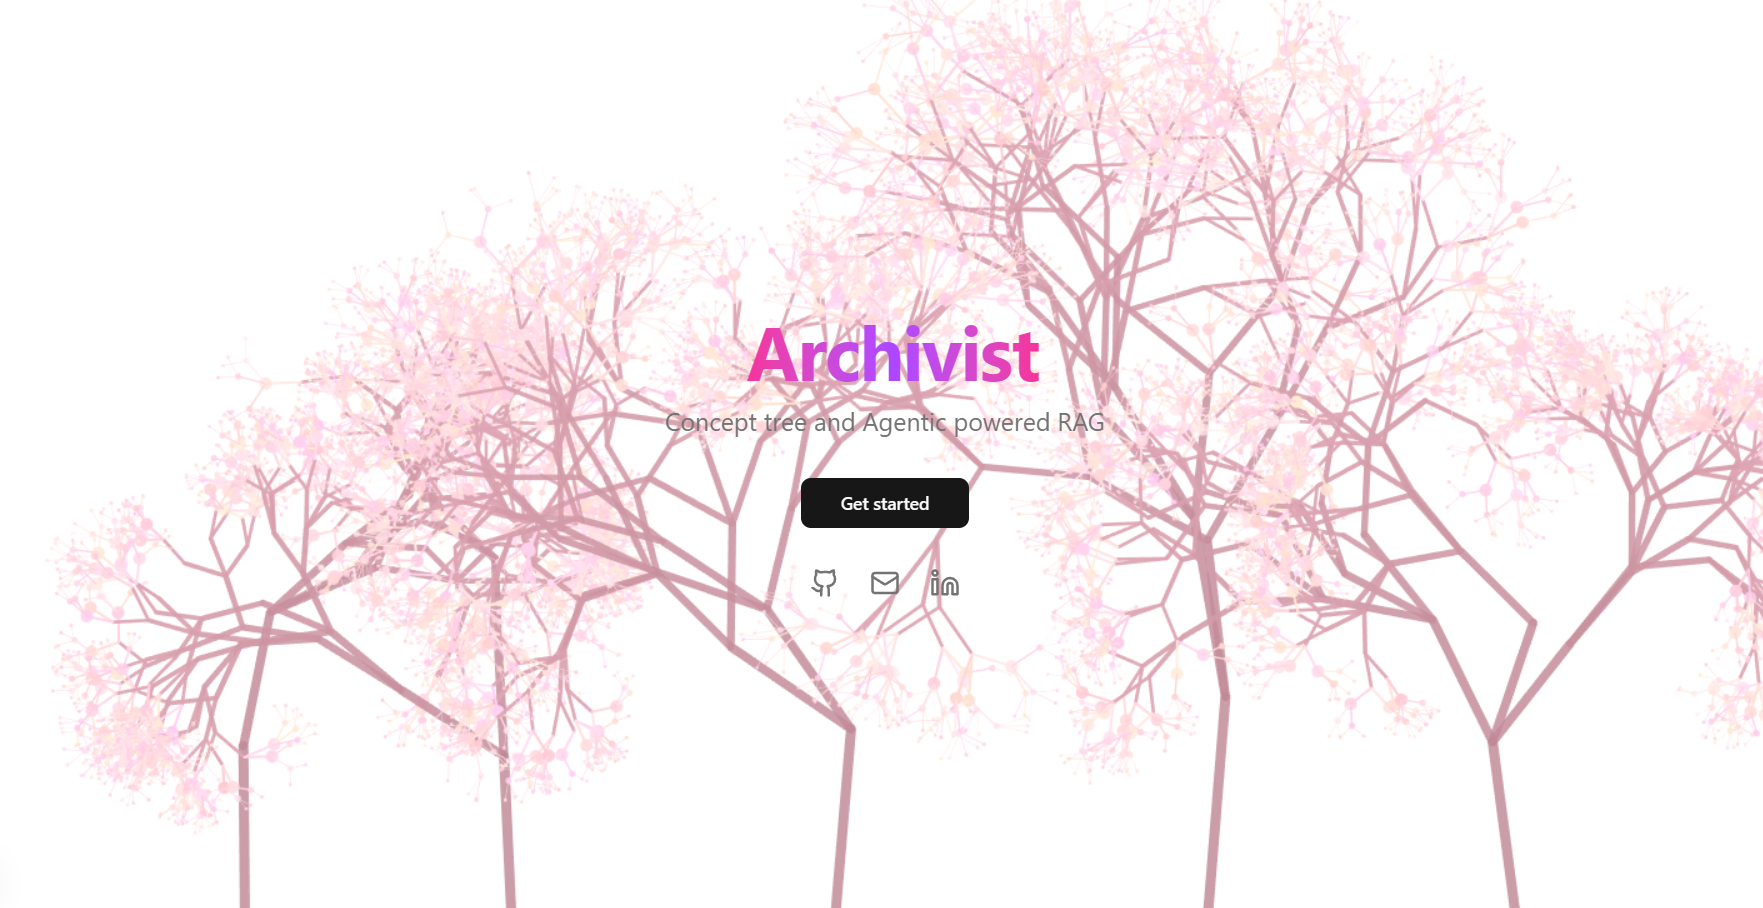
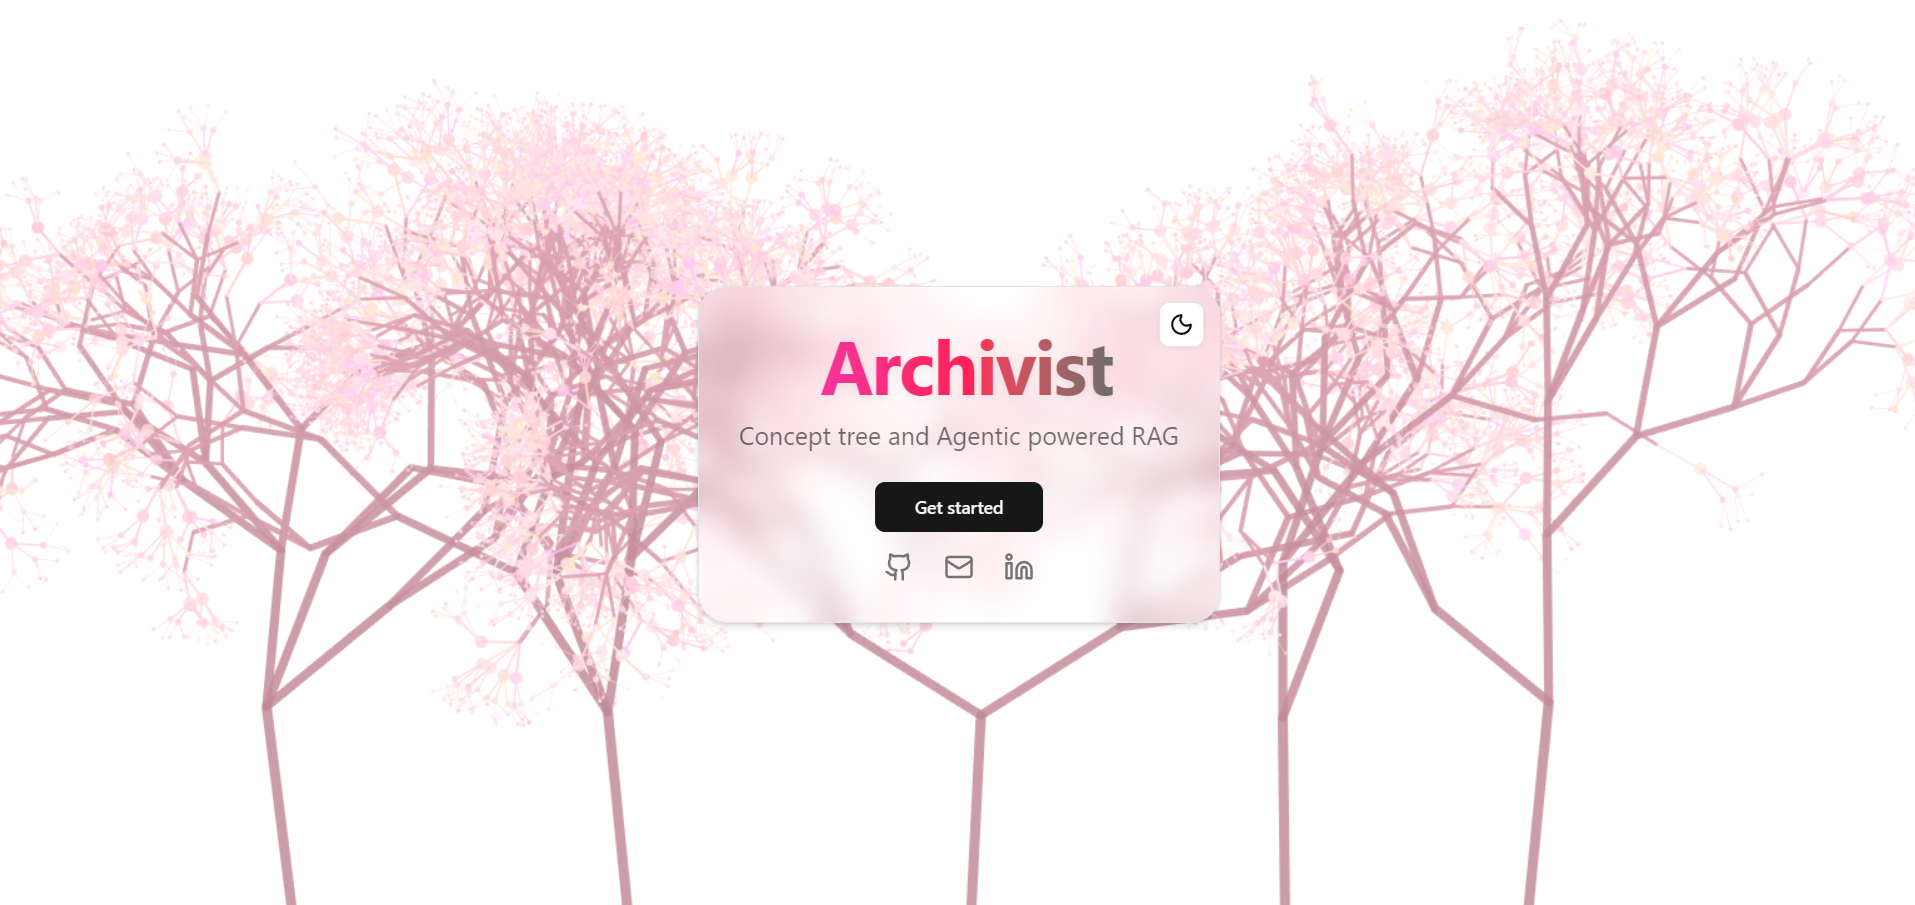
feat(homepage): add dark mode toggle and improve styling
- Implement theme toggle button using next-themes
- Update gradient text colors to adapt to theme
- Add glassmorphism effect to main content container
- Reorganize layout structure for better visual hierarchy

diff --git a/frontend/src/app/page.tsx b/frontend/src/app/page.tsx
@@ -1,11 +1,18 @@
 "use client"
 
 import Link from "next/link"
-import { Mail, Linkedin, Github } from "lucide-react"
+import * as React from "react"
+import { useTheme } from "next-themes"
+import { Mail, Linkedin, Github, Sun, Moon } from "lucide-react"
 import { Button } from "@/components/ui/button"
 import ModernTreeBackground from "@/components/modern-tree-background"
 
 export default function Home() {
+  const { theme, resolvedTheme, setTheme } = useTheme()
+  const [mounted, setMounted] = React.useState(false)
+  React.useEffect(() => {
+    setMounted(true)
+  }, [])
 
   return (
     <main className="relative min-h-screen overflow-hidden bg-background">
@@ -13,50 +20,75 @@ export default function Home() {
 
       <div className="relative z-10 flex min-h-screen items-center justify-center px-4 py-12">
         <div className="max-w-2xl text-center">
-          <div className="mb-8">
-            <h1 className="text-5xl sm:text-6xl font-bold tracking-tight mb-3">
-              <span className="ml-3 bg-gradient-to-r from-pink-500 via-purple-500 to-pink-500 bg-clip-text text-transparent">
-                Archivist
-              </span>
-            </h1>
-            <p className="text-lg sm:text-xl text-muted-foreground font-small">Concept tree and Agentic powered RAG</p>
-          </div>
+          <div className="mx-auto w-fit">
+            <div className="relative rounded-3xl border bg-white/5 dark:bg-white/5 backdrop-blur-md px-8 py-8 shadow-lg">
+              {mounted && (
+                <div className="absolute right-3 top-3">
+                  <Button
+                    variant="outline"
+                    size="icon"
+                    onClick={() => setTheme((theme || resolvedTheme) === "dark" ? "light" : "dark")}
+                    aria-label="Toggle theme"
+                  >
+                    {(theme || resolvedTheme) === "dark" ? (
+                      <Sun className="size-5" />
+                    ) : (
+                      <Moon className="size-5" />
+                    )}
+                  </Button>
+                </div>
+              )}
+              <div className="mb-6">
+                <h1 className="text-5xl sm:text-6xl font-bold tracking-tight mb-3">
+                  <span
+                    className={`ml-3 bg-clip-text text-transparent ${
+                      (theme || resolvedTheme) === "dark"
+                        ? "bg-gradient-to-r from-white via-rose-300 to-pink-500 drop-shadow-[0_2px_3px_rgba(180,180,180,0.12)]"
+                        : "bg-gradient-to-r from-pink-500 via-rose-500 to-[#6b6b6b] drop-shadow-[0_2px_3px_rgba(160,160,160,0.18)]"
+                    }`}
+                  >
+                    Archivist
+                  </span>
+                </h1>
+                <p className="text-lg sm:text-xl text-foreground/60 font-small">Concept tree and Agentic powered RAG</p>
+              </div>
 
-          <div className="mb-8">
-            <Link href="/login">
-              <Button size="lg" className="px-8">
-                Get started
-              </Button>
-            </Link>
-          </div>
+              <div className="mb-4 flex justify-center">
+                <Link href="/login">
+                  <Button size="lg" className="px-8">
+                    Get started
+                  </Button>
+                </Link>
+              </div>
 
-          {/* Social Icons */}
-          <div className="flex justify-center gap-6">
-            <a
-              href="https://github.com/AlvinWenJH/agentic-rag"
-              target="_blank"
-              rel="noopener noreferrer"
-              className="text-muted-foreground hover:text-foreground transition-colors"
-              aria-label="GitHub"
-            >
-              <Github size={24} />
-            </a>
-            <a
-              href="mailto:alvin.wenjianhong@gmail.com"
-              className="text-muted-foreground hover:text-foreground transition-colors"
-              aria-label="Email"
-            >
-              <Mail size={24} />
-            </a>
-            <a
-              href="https://www.linkedin.com/in/alvin-wen"
-              target="_blank"
-              rel="noopener noreferrer"
-              className="text-muted-foreground hover:text-foreground transition-colors"
-              aria-label="LinkedIn"
-            >
-              <Linkedin size={24} />
-            </a>
+              <div className="flex justify-center gap-6">
+                <a
+                  href="https://github.com/AlvinWenJH/agentic-rag"
+                  target="_blank"
+                  rel="noopener noreferrer"
+                  className="text-muted-foreground hover:text-foreground transition-colors"
+                  aria-label="GitHub"
+                >
+                  <Github size={24} />
+                </a>
+                <a
+                  href="mailto:alvin.wenjianhong@gmail.com"
+                  className="text-muted-foreground hover:text-foreground transition-colors"
+                  aria-label="Email"
+                >
+                  <Mail size={24} />
+                </a>
+                <a
+                  href="https://www.linkedin.com/in/alvin-wen"
+                  target="_blank"
+                  rel="noopener noreferrer"
+                  className="text-muted-foreground hover:text-foreground transition-colors"
+                  aria-label="LinkedIn"
+                >
+                  <Linkedin size={24} />
+                </a>
+              </div>
+            </div>
           </div>
         </div>
       </div>
